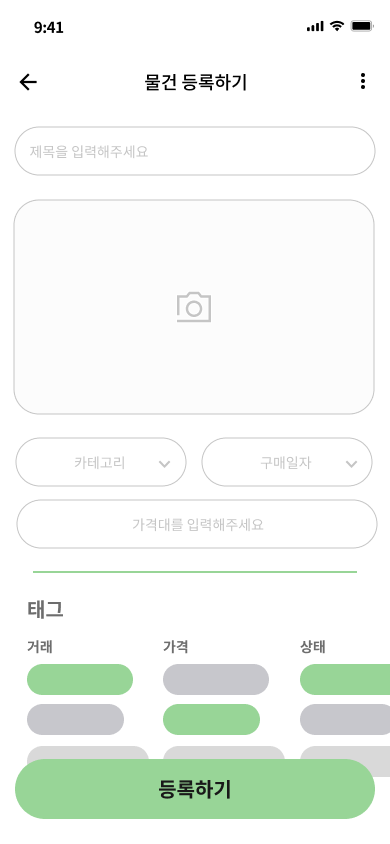
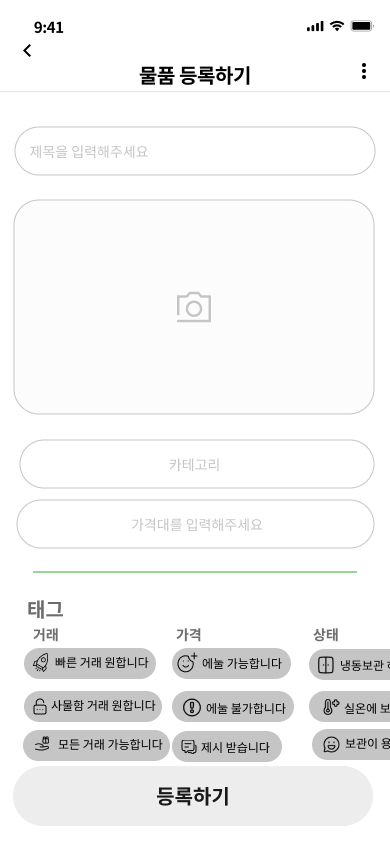
Add files via upload

diff --git a/4.register7.html b/4.register7.html
@@ -4,28 +4,28 @@
     <meta charset="UTF-8">
     <title> dao </title>
     <style>
-        button {          
-          width: 50px;
-          height: 50px;
+        button {
+          
+          width: 360px;
+          height: 60px;
           margin-top: 50px;
           margin-left: -334px;
           position: absolute;
-          top: 20px;
-          left: 350px;
+          top: 704px;
+          left: 370px;
           border: none;
-          border-radius: 30px;
+          border-radius: 50px;
           outline: none;
-          background-color: rgba(0,0,0, 0);
-          box-shadow: none;
+          background-color: rgb(0,0,0,0);
         }
     </style>
 </head>
 
 <body>
     <div id="home">
-        <img src="writerq.png" width="414px" height="830px" alt="home" />
+        <img src="register7.png" width="414px" height="830px" alt="register" />
         <div class="button">
-            <button type="submit" onclick="location.href='8.home.html'"></button>
+            <button type="submit" onclick="location.href='4.registerFinal.html'"></button>
         </div>
       </div>
 </body>

diff --git a/4.registerFinal.html b/4.registerFinal.html
@@ -4,28 +4,28 @@
     <meta charset="UTF-8">
     <title> dao </title>
     <style>
-        button {          
-          width: 50px;
-          height: 50px;
+        button {
+          
+          width: 360px;
+          height: 60px;
           margin-top: 50px;
           margin-left: -334px;
           position: absolute;
-          top: 20px;
-          left: 350px;
+          top: 400px;
+          left: 370px;
           border: none;
-          border-radius: 30px;
+          border-radius: 50px;
           outline: none;
-          background-color: rgba(0,0,0, 0);
-          box-shadow: none;
+          background-color: rgb(0,0,0,0);
         }
     </style>
 </head>
 
 <body>
     <div id="home">
-        <img src="writerq.png" width="414px" height="830px" alt="home" />
+        <img src="registerFinal.png" width="414px" height="830px" alt="register" />
         <div class="button">
-            <button type="submit" onclick="location.href='8.home.html'"></button>
+            <button type="submit" onclick="location.href='5.home.html'"></button>
         </div>
       </div>
 </body>

diff --git a/10.requestdetail2.html b/10.requestdetail2.html
@@ -5,13 +5,13 @@
     <title> dao </title>
     <style>
         button {          
-          width: 450px;
-          height: 700px;
+          width: 280px;
+          height: 50px;
           margin-top: 50px;
           margin-left: -334px;
           position: absolute;
-          top: 20px;
-          left: 350px;
+          top: 420px;
+          left: 400px;
           border: none;
           border-radius: 30px;
           outline: none;
@@ -21,11 +21,18 @@
     </style>
 </head>
 
+<style>
+    .home { 
+    border: none;
+    }
+</style>
+
 <body>
     <div id="home">
-        <img src="register.png" width="414px" height="830px" alt="register" />
+        <img src="requestdetail2.png" width="414px" height="830px" alt="home" />
         <div class="button">
-            <button type="submit" onclick="location.href='4.register2.html'"></button>
+            <button type="submit" onclick="location.href='11.home.html'"></button>
+        <!-- 교환 거절 or 수락 버튼 -->
         </div>
       </div>
 </body>

diff --git a/1.home.html b/1.home.html
@@ -3,15 +3,18 @@
 <head>
     <title>App Prototype</title>
     <style>
-        button {
+        button {          
           width: 70px;
-          height: 50px;
-          margin-top: 10px;
+          height: 70px;
+          margin-top: 50px;
           margin-left: -334px;
+          position: absolute;
+          top: 700px;
+          left: 430px;
           border: none;
-          border-radius: 0px;
+          border-radius: 30px;
           outline: none;
-          background-color: rgb(255, 255, 255);
+          background-color: rgba(0, 0, 0, 0);
           box-shadow: none;
         }
     </style>
@@ -21,9 +24,9 @@
 
     <div id="home">
         <img src="home.png" width="414px" height="830px" alt="home" />
-        <button type="button">
-            <img src="lookbt.png" alt="lookbt" onclick="location.href='2.look.html'">
-          </button>
+        <div class="button">
+            <button type="submit" onclick="location.href='2.look.html'"></button>
+        </div>
       </div>
 
 </body>

diff --git a/10.requestdetail.html b/10.requestdetail.html
@@ -3,7 +3,22 @@
 <head>
     <meta charset="UTF-8">
     <title> dao </title>
-    
+    <style>
+        button {          
+          width: 190px;
+          height: 60px;
+          margin-top: 50px;
+          margin-left: -334px;
+          position: absolute;
+          top: 700px;
+          left: 350px;
+          border: none;
+          border-radius: 30px;
+          outline: none;
+          background-color: rgba(0,0,0,0);
+          box-shadow: none;
+        }
+    </style>
 </head>
 
 <style>
@@ -16,8 +31,7 @@
     <div id="home">
         <img src="requestdetail.png" width="414px" height="830px" alt="home" />
         <div class="button">
-            <!-- <button type="submit" onclick="location.href='10.requestdetail.html'"></button> -->
-        <!-- 교환 거절 or 수락 버튼 -->
+            <button type="submit" onclick="location.href='10.requestdetail2.html'"></button>
         </div>
       </div>
 </body>

diff --git a/5.home.html b/5.home.html
@@ -5,8 +5,8 @@
     <title> dao </title>
     <style>
         button {
-          width: 70px;
-          height: 30px;
+          width: 200px;
+          height: 120px;
           margin-top: 50px;
           margin-left: -334px;
           position: absolute;
@@ -15,7 +15,7 @@
           border: none;
           border-radius: 0px;
           outline: none;
-          background-color: white;
+          background-color: rgba(0, 0, 0, 0);
           box-shadow: none;
         }
     </style>
@@ -24,9 +24,9 @@
 <body>
     <div id="home">
         <img src="home.png" width="414px" height="830px" alt="home" />
-        <button type="button">
-            <img src="Rectangle 10739.svg" alt="Rectangle" onclick="location.href='6.detail.html'">
-          </button>
+        <div class="button">
+            <button type="submit" onclick="location.href='6.detail.html'"></button>
+        </div>
       </div>
 </body>
 </html>

diff --git a/2.look.html b/2.look.html
@@ -10,12 +10,12 @@
           margin-top: 50px;
           margin-left: -334px;
           position: absolute;
-          top: 17px;
+          top: 1px;
           left: 325px;
           border: none;
           border-radius: 0px;
           outline: none;
-          background-color: white;
+          background-color: rgb(0,0,0,0);
           box-shadow: none;
         }
     </style>
@@ -30,9 +30,9 @@
 <body>
     <div id="look">
         <img src="look.png" width="414px" height="830px" alt="home" />
-        <button type="button">
-            <img src="Arrow.svg" alt="Arrow" onclick="location.href='3.home.html'">
-          </button>
+        <div class="button">
+            <button type="submit" onclick="location.href='3.home.html'"></button>
+        </div>
       </div>
 
 </body>

diff --git a/8.home.html b/8.home.html
@@ -15,7 +15,7 @@
           border: none;
           border-radius: 0px;
           outline: none;
-          background-color: rgb(255, 255, 255);
+          background-color: rgb(0,0,0,0);
           box-shadow: none;
         }
     </style>
@@ -30,9 +30,9 @@
 <body>
     <div id="home">
         <img src="home.png" width="414px" height="830px" alt="home" />
-        <button type="button">
-            <img src="🦆 icon _send_.svg" alt="request" onclick="location.href='9.request.html'">
-          </button>
+        <div class="button">
+            <button type="submit" onclick="location.href='9.request.html'"></button>
+        </div>
       </div>
 </body>
 </html>

diff --git a/4.register2.html b/4.register2.html
@@ -23,9 +23,9 @@
 
 <body>
     <div id="home">
-        <img src="register.png" width="414px" height="830px" alt="register" />
+        <img src="register2.png" width="414px" height="830px" alt="register" />
         <div class="button">
-            <button type="submit" onclick="location.href='4.register2.html'"></button>
+            <button type="submit" onclick="location.href='4.register3.html'"></button>
         </div>
       </div>
 </body>

diff --git a/4.register3.html b/4.register3.html
@@ -23,9 +23,9 @@
 
 <body>
     <div id="home">
-        <img src="register.png" width="414px" height="830px" alt="register" />
+        <img src="register3.png" width="414px" height="830px" alt="register" />
         <div class="button">
-            <button type="submit" onclick="location.href='4.register2.html'"></button>
+            <button type="submit" onclick="location.href='4.register4.html'"></button>
         </div>
       </div>
 </body>

diff --git a/4.register4.html b/4.register4.html
@@ -23,9 +23,9 @@
 
 <body>
     <div id="home">
-        <img src="register.png" width="414px" height="830px" alt="register" />
+        <img src="register4.png" width="414px" height="830px" alt="register" />
         <div class="button">
-            <button type="submit" onclick="location.href='4.register2.html'"></button>
+            <button type="submit" onclick="location.href='4.register5.html'"></button>
         </div>
       </div>
 </body>

diff --git a/4.register5.html b/4.register5.html
@@ -23,9 +23,9 @@
 
 <body>
     <div id="home">
-        <img src="register.png" width="414px" height="830px" alt="register" />
+        <img src="register5.png" width="414px" height="830px" alt="register" />
         <div class="button">
-            <button type="submit" onclick="location.href='4.register2.html'"></button>
+            <button type="submit" onclick="location.href='4.register6.html'"></button>
         </div>
       </div>
 </body>
